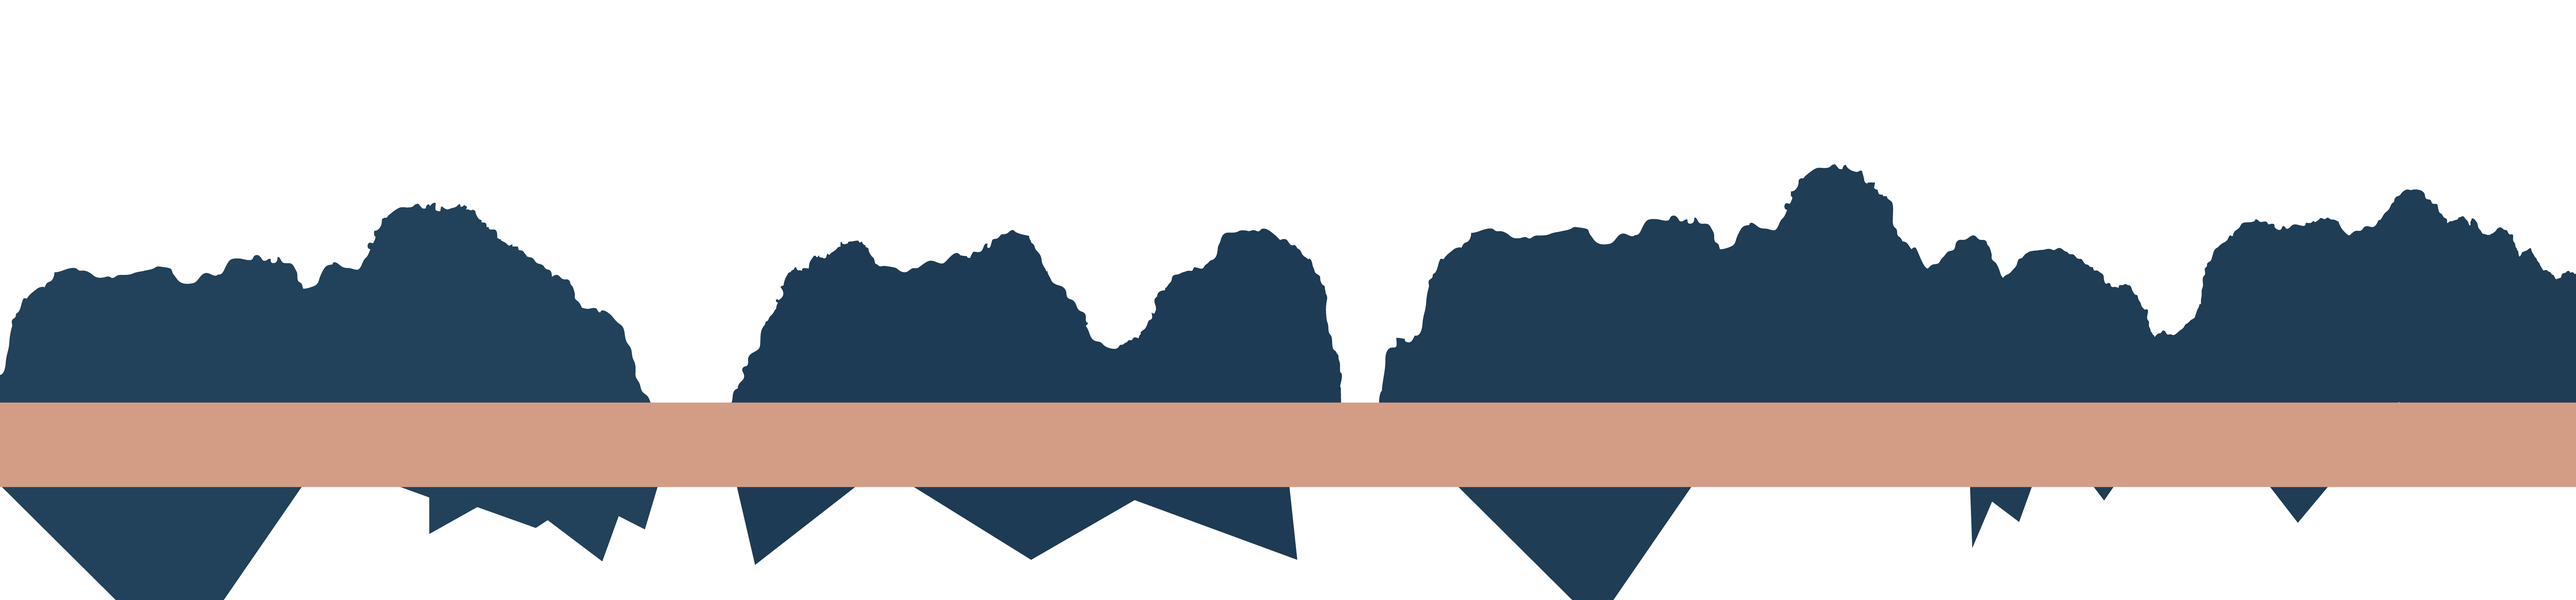
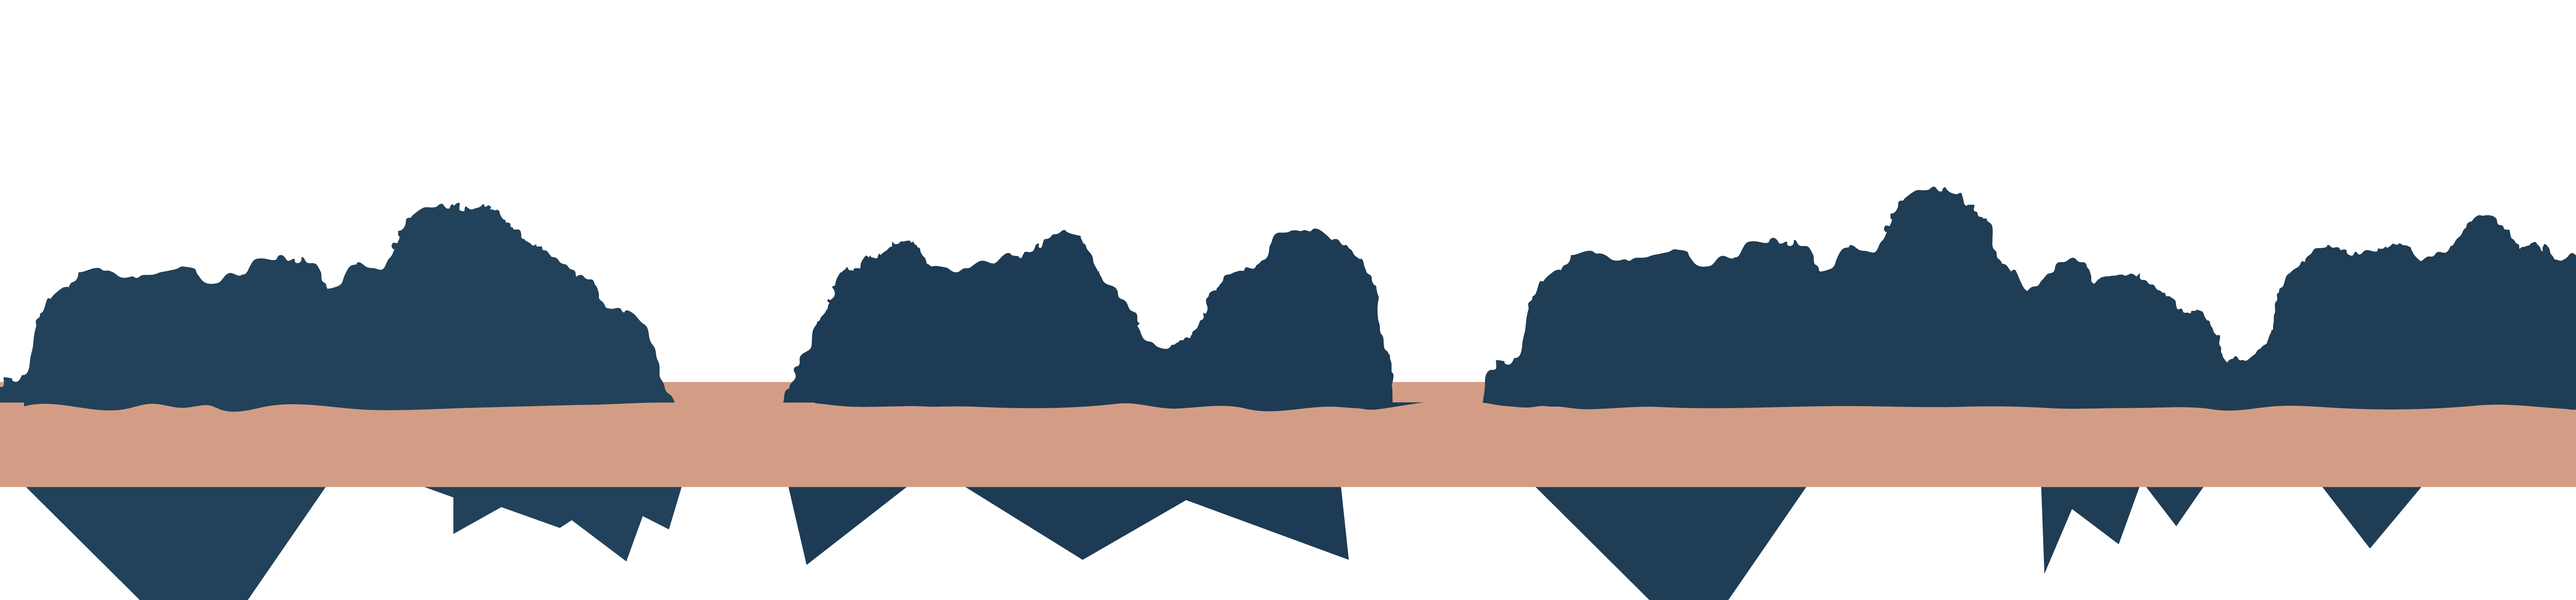
Was able to center things and add clear div under parallax things.

diff --git a/src/kong/KongPage.jsx b/src/kong/KongPage.jsx
@@ -2,6 +2,9 @@ import React from 'react';
 
 import './kong.css';
 
+// import ReactResizeDetector from 'react-resize-detector';
+import $ from "jquery";
+
 import zeroth from './images/0.png';
 import first from './images/1.png';
 import second from './images/2.png';
@@ -10,17 +13,27 @@ import fourth from './images/4.png';
 import fifth from './images/5.png';
 import sixth from './images/6.png';
 
-
 import zeroth2 from './images2/kong_Military.png';
 import first2 from './images2/kong_Water.png';
 import second2 from './images2/kong_Front.png';
 import third2 from './images2/kong_3rdBackMost.png';
 import fourth2 from './images2/kong_2ndBackMost.png';
-import fifth2 from './images2/kong_BackMost.png';
-import sixth2 from './images2/kong_Kong.png';
+import fifth2 from './images2/kong_Kong.png';
+import sixth2 from './images2/kong_BackMost.png';
 import seventh2 from './images2/kong_Sky.png';
 
+import koth from './images2/koth.png';
+
 class KongPage extends React.Component {
+  
+  componentDidMount() {
+    $(window).resize(function() {
+      console.log(window.innerWidth);
+      // console.log('...' + document.documentElement.clientWidth);
+      
+      $('#parallax__cover').css('left', 1500 - window.innerWidth/2+'px')
+    });
+  }
   
   get backgrounds() {
     return [...Array(3)].map((background, i) => (
@@ -41,24 +54,41 @@ class KongPage extends React.Component {
   }
   
   get content2() {
-    return [zeroth2, first2, second2, third2, fourth2, fifth2, sixth2, seventh2].reverse();
+    return [seventh2, sixth2, fifth2, fourth2, third2, second2, first2];
   }
   
   get parallaxes2() {
     return this.content2.map((para, i) => (
-      <div className={"parallax__layer parallax__layer__"+(i+1)}>
+      <div className={"parallax__layer parallax__layer__"+(i)}>
         <img src={para}/>
       </div>
     ));
   }
   
+  get width() {
+    console.log(window.innerWidth);
+    return {width: window.innerWidth};
+    // if (window.innerWidth >= 925) return;
+    
+    
+  }
+  
+  
+  
+  
   render() {
+    console.log($)
     return (
       <div className="home-content">
         {this.backgrounds}
         <div className="parallax">
           {this.parallaxes2}
-          <div className="parallax__cover"></div>
+          <div className={"parallax__layer parallax__layer__"+(7)}>
+            <img src={zeroth2}/>
+            <div id="parallax__cover">
+              <img src={koth}/>
+            </div>
+          </div>
         </div>
       </div>
     );

diff --git a/src/kong/kong.scss b/src/kong/kong.scss
@@ -1,14 +1,16 @@
 .home-content {
-  position: absolute;
+  // position: absolute;
   width: 100%;
   height: 100%;
-  padding: 5%;
-  display: flex;
-  -webkit-box-orient: vertical;
-  -webkit-box-direction: normal;
-  justify-content: flex-end;
-  align-items: center;
-  overflow: hidden;}
+  // padding: 5%;
+  // display: flex;
+  // -webkit-box-orient: vertical;
+  // -webkit-box-direction: normal;
+  // justify-content: flex-end;
+  // align-items: center;
+  // overflow: hidden;
+  
+}
 
 .background {
   position: absolute;
@@ -50,21 +52,29 @@
   right: 0;
   bottom: 0;
   left: 0;
-  img {
+  > img {
     display: block;
     position: absolute;
     bottom: 0;
-    max-width: 3125px;
+    max-width: 3000px;
     max-height: 1563px;}}
 
-.parallax__cover {
-  background: #2D112B;
+#parallax__cover {
+  background: #ffffff;
   position: absolute;
   top: 100%;
-  left: 0;
-  right: 0;
-  height: 2000px;
-  z-index: 2;}
+  left: 832px;
+  // right: 0;
+  width: 100vw;
+  min-height: 300px;
+  z-index: 5;
+  img {
+    height: 233px;
+    z-index: 500;
+    left: 50%;
+    transform: translateX(-50%);
+    // left: 550px;
+    position: absolute;}}
 
 $parallax__layers: 7;
 
@@ -74,17 +84,11 @@ $parallax__layers: 7;
      transform: translateZ(-100 * $x#{px}) scale($x + 1);}}
 
 // @keyframes fadeInOut {
-//   0% {
-//     opacity: 0;}
-//   50% {
-//     opacity: 1;}
-//   100% {
-//     opacity: 0;}}
+//   0% {opacity: 0;}
+//   50% {opacity: 1;}
+//   100% {opacity: 0;}}
 
 // @keyframes fadeOutIn {
-//   0% {
-//     opacity: 1;}
-//   50% {
-//     opacity: 0;} 
-//   100% {
-//     opacity: 1;}}
+//   0% {opacity: 1;}
+//   50% {opacity: 0;} 
+//   100% {opacity: 1;}}

diff --git a/src/kong/kong.css b/src/kong/kong.css
@@ -1,14 +1,6 @@
 .home-content {
-  position: absolute;
   width: 100%;
-  height: 100%;
-  padding: 5%;
-  display: flex;
-  -webkit-box-orient: vertical;
-  -webkit-box-direction: normal;
-  justify-content: flex-end;
-  align-items: center;
-  overflow: hidden; }
+  height: 100%; }
 
 .background {
   position: absolute;
@@ -53,21 +45,28 @@
   bottom: 0;
   left: 0; }
 
-.parallax__layer img {
+.parallax__layer > img {
   display: block;
   position: absolute;
   bottom: 0;
-  max-width: 3125px;
+  max-width: 3000px;
   max-height: 1563px; }
 
-.parallax__cover {
-  background: #2D112B;
+#parallax__cover {
+  background: #ffffff;
   position: absolute;
   top: 100%;
-  left: 0;
-  right: 0;
-  height: 2000px;
-  z-index: 2; }
+  left: 832px;
+  width: 100vw;
+  min-height: 300px;
+  z-index: 5; }
+
+#parallax__cover img {
+  height: 233px;
+  z-index: 500;
+  left: 50%;
+  transform: translateX(-50%);
+  position: absolute; }
 
 .parallax__layer__0 {
   transform: translateZ(-350px) scale(4.5); }
